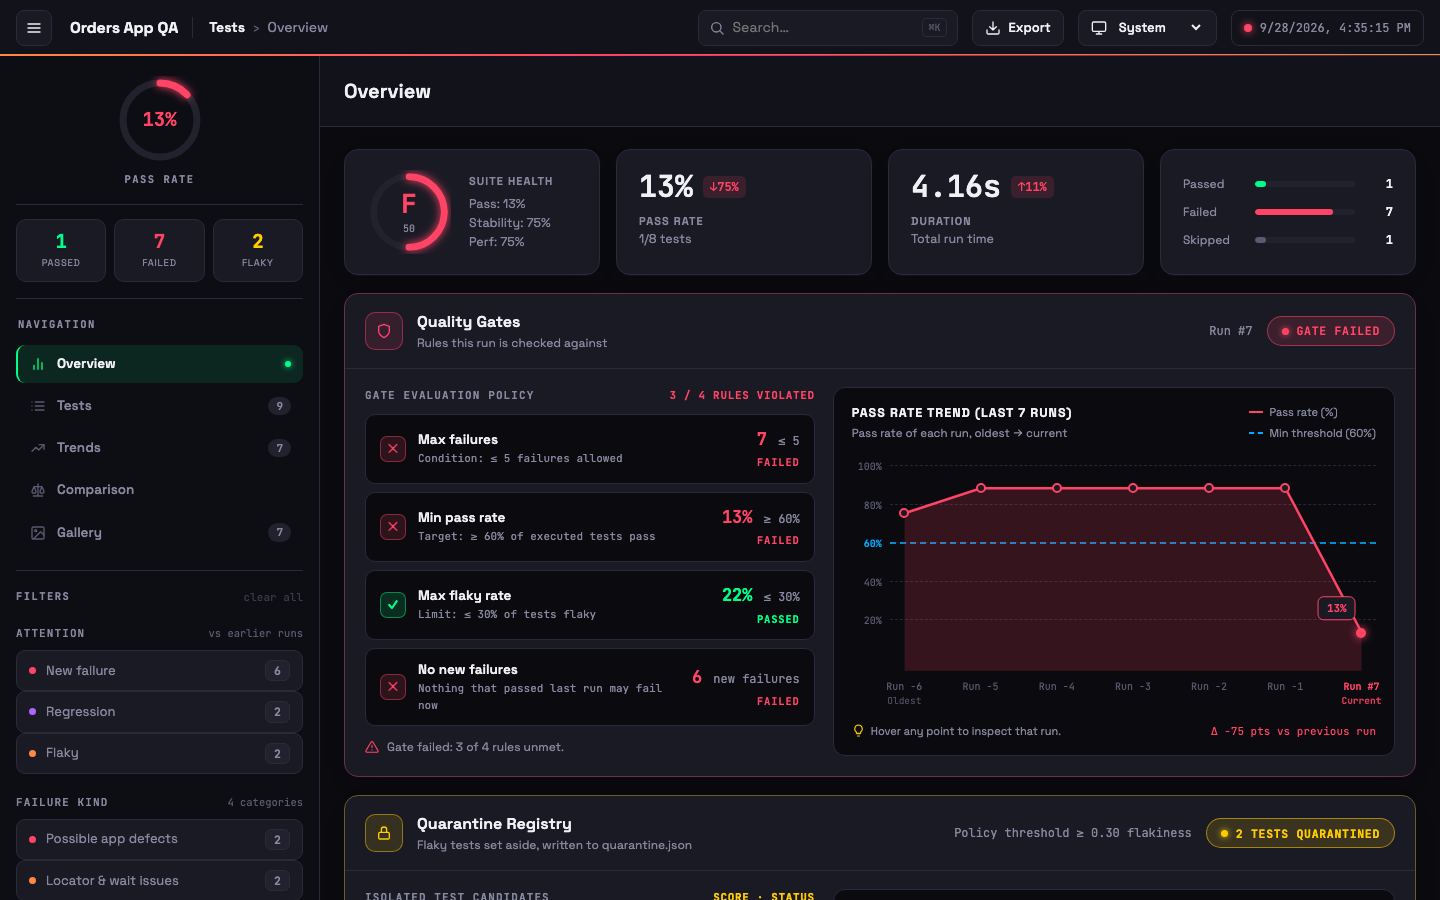
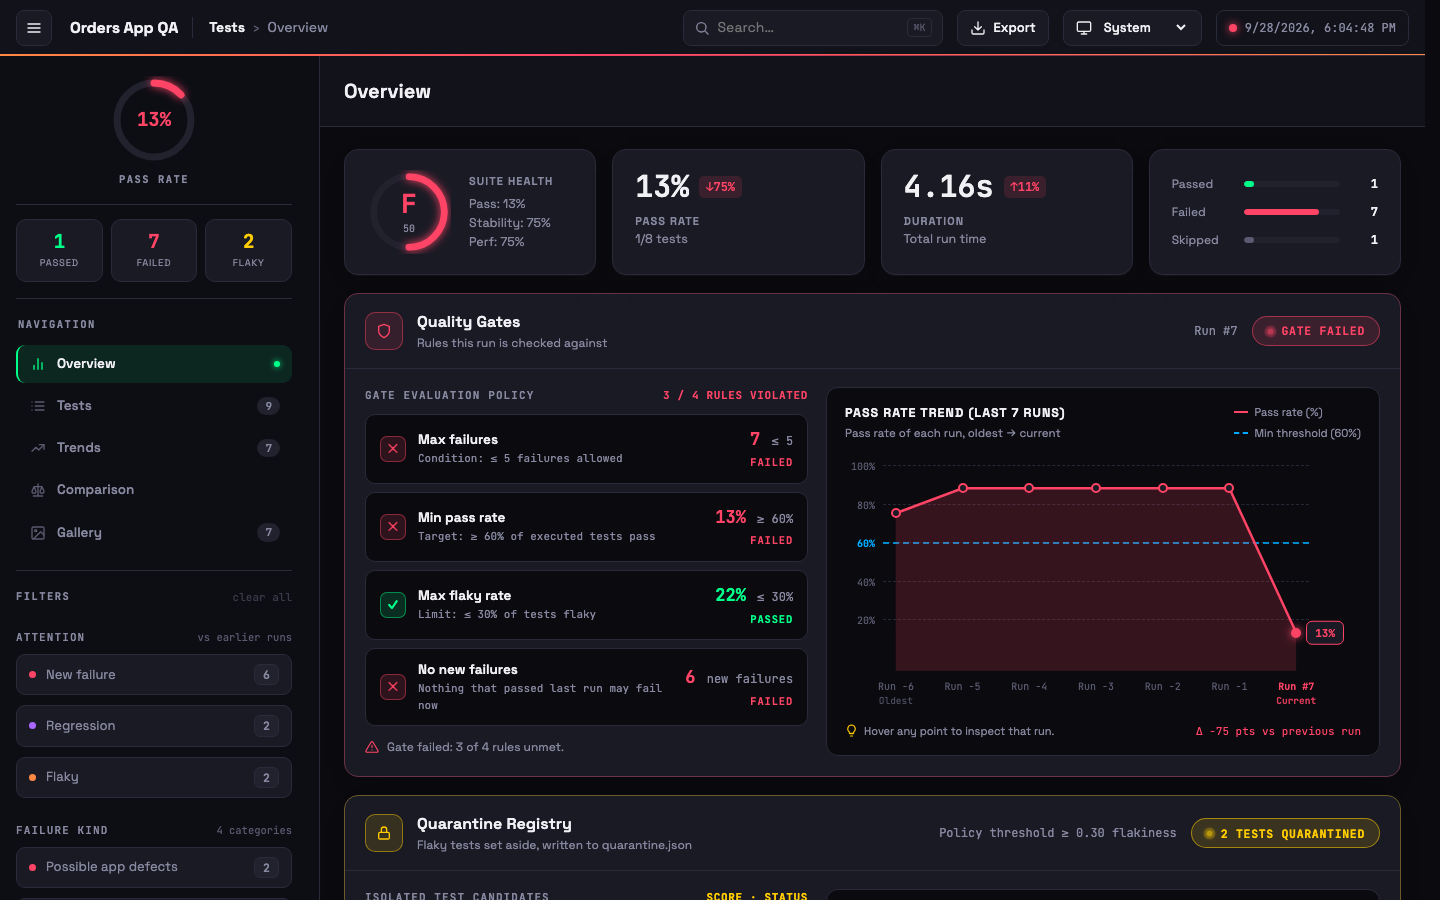
Trim the empty space at the right of the trend charts
The room kept for the current-run label was 14% of the chart width, which
on a wide screen left about 100px of empty plot. Keep a fixed 52px margin
instead, just wide enough for the label, so the line and gridlines run
close to the edge at any width. Refresh the README screenshots that show
these charts.

diff --git a/src/render.js b/src/render.js
@@ -229,9 +229,9 @@ function runChart(values, o) {
   const n = values.length;
   if (n < 2) return `<div class="achart empty ${o.tone}"><p>The trend appears from the second run.</p></div>`;
   const top = o.max || 1;
-  // The last point stops at 86%: the space to its right holds the callout, and no
-  // line can ever run there, because the current run is always the rightmost point.
-  const X = (i) => 3 + (i / (n - 1)) * 83;
+  // The plot keeps a fixed right margin (CSS) for the callout: the current run is
+  // always the rightmost point, so no line can ever run through that space.
+  const X = (i) => 3 + (i / (n - 1)) * 94;
   const Y = (v) => 6 + (1 - Math.max(0, Math.min(v, top)) / top) * 88;
   const pts = values.map((v, i) => [X(i), Y(v)]);
   let line = `M${pts[0][0]},${pts[0][1].toFixed(2)}`;
@@ -1450,7 +1450,7 @@ border:1px solid color-mix(in srgb,var(--orange) 50%,transparent);background:col
 .achart{flex:1;display:flex;flex-direction:column;min-height:220px}
 .achart.green{--tone:var(--green)}.achart.red{--tone:var(--red)}.achart.yellow{--tone:var(--yellow)}
 .achart.empty{display:grid;place-items:center;color:var(--fg2);font-size:12.5px}
-.aplot{position:relative;flex:1;margin-left:38px;min-height:190px}
+.aplot{position:relative;flex:1;margin:0 52px 0 38px;min-height:190px}
 .aplot svg{position:absolute;inset:0;width:100%;height:100%;overflow:visible}
 .afill{fill:color-mix(in srgb,var(--tone) 18%,transparent)}
 .aline{fill:none;stroke:var(--tone);stroke-width:2.5}
@@ -1458,9 +1458,9 @@ border:1px solid color-mix(in srgb,var(--orange) 50%,transparent);background:col
 .gl span{position:absolute;right:calc(100% + 8px);top:-7px;font-family:var(--mono);font-size:10px;color:var(--mut)}
 .gl.th span{color:var(--blue);font-weight:700}
 .thr{position:absolute;left:0;right:0;border-top:2px dashed color-mix(in srgb,var(--blue) 80%,transparent)}
-.callout{position:absolute;transform:translate(12px,-50%);padding:3px 8px;border-radius:6px;font-family:var(--mono);font-size:11px;font-weight:700;color:var(--tone);
+.callout{position:absolute;transform:translate(10px,-50%);padding:3px 8px;border-radius:6px;font-family:var(--mono);font-size:11px;font-weight:700;color:var(--tone);
 border:1px solid var(--tone);background:var(--card);pointer-events:none;white-space:nowrap}
-.axl{position:relative;height:34px;margin:8px 0 0 38px}
+.axl{position:relative;height:34px;margin:8px 52px 0 38px}
 .axl span{position:absolute;transform:translateX(-50%);display:grid;justify-items:center;font-family:var(--mono);font-size:10px;color:var(--mut);white-space:nowrap}
 .axl small{font-size:9.5px;opacity:.85}
 .axl span.cur{color:var(--tone);font-weight:700}

diff --git a/test/fixtures/expected-report.html b/test/fixtures/expected-report.html
@@ -502,7 +502,7 @@ border:1px solid color-mix(in srgb,var(--orange) 50%,transparent);background:col
 .achart{flex:1;display:flex;flex-direction:column;min-height:220px}
 .achart.green{--tone:var(--green)}.achart.red{--tone:var(--red)}.achart.yellow{--tone:var(--yellow)}
 .achart.empty{display:grid;place-items:center;color:var(--fg2);font-size:12.5px}
-.aplot{position:relative;flex:1;margin-left:38px;min-height:190px}
+.aplot{position:relative;flex:1;margin:0 52px 0 38px;min-height:190px}
 .aplot svg{position:absolute;inset:0;width:100%;height:100%;overflow:visible}
 .afill{fill:color-mix(in srgb,var(--tone) 18%,transparent)}
 .aline{fill:none;stroke:var(--tone);stroke-width:2.5}
@@ -510,9 +510,9 @@ border:1px solid color-mix(in srgb,var(--orange) 50%,transparent);background:col
 .gl span{position:absolute;right:calc(100% + 8px);top:-7px;font-family:var(--mono);font-size:10px;color:var(--mut)}
 .gl.th span{color:var(--blue);font-weight:700}
 .thr{position:absolute;left:0;right:0;border-top:2px dashed color-mix(in srgb,var(--blue) 80%,transparent)}
-.callout{position:absolute;transform:translate(12px,-50%);padding:3px 8px;border-radius:6px;font-family:var(--mono);font-size:11px;font-weight:700;color:var(--tone);
+.callout{position:absolute;transform:translate(10px,-50%);padding:3px 8px;border-radius:6px;font-family:var(--mono);font-size:11px;font-weight:700;color:var(--tone);
 border:1px solid var(--tone);background:var(--card);pointer-events:none;white-space:nowrap}
-.axl{position:relative;height:34px;margin:8px 0 0 38px}
+.axl{position:relative;height:34px;margin:8px 52px 0 38px}
 .axl span{position:absolute;transform:translateX(-50%);display:grid;justify-items:center;font-family:var(--mono);font-size:10px;color:var(--mut);white-space:nowrap}
 .axl small{font-size:9.5px;opacity:.85}
 .axl span.cur{color:var(--tone);font-weight:700}

diff --git a/CHANGELOG.md b/CHANGELOG.md
@@ -45,7 +45,7 @@ Will ship as **0.1.1** (already set in `package.json`).
   28px chevron button in the section's colour instead of a tiny glyph.
 - Fix: the current-run label on the Quality Gates and Quarantine charts
   ("13%") sat on top of the trend line; it now sits to the right of the last
-  point, where no line can run.
+  point, where no line can run, in a fixed margin just wide enough for it.
 - Fix: the ☰ menu button did nothing on wide screens. It now collapses and
   expands the sidebar (remembered per browser); on narrow screens it still
   slides the sidebar in over the page.
